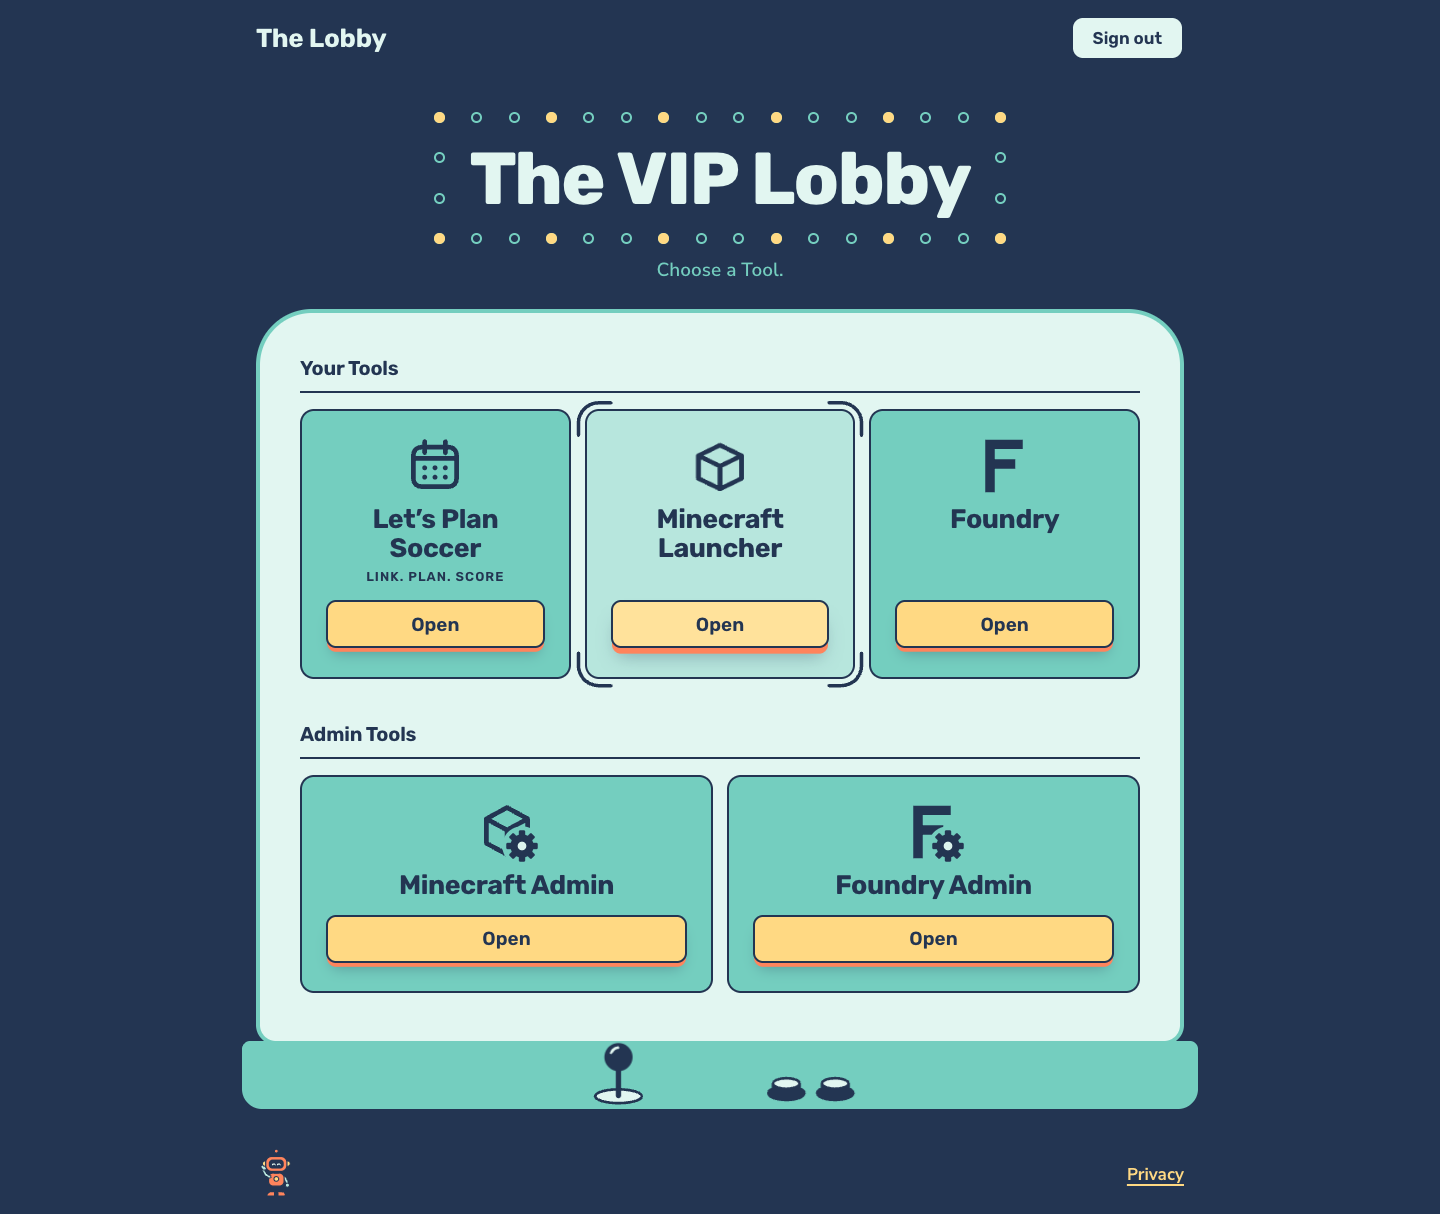
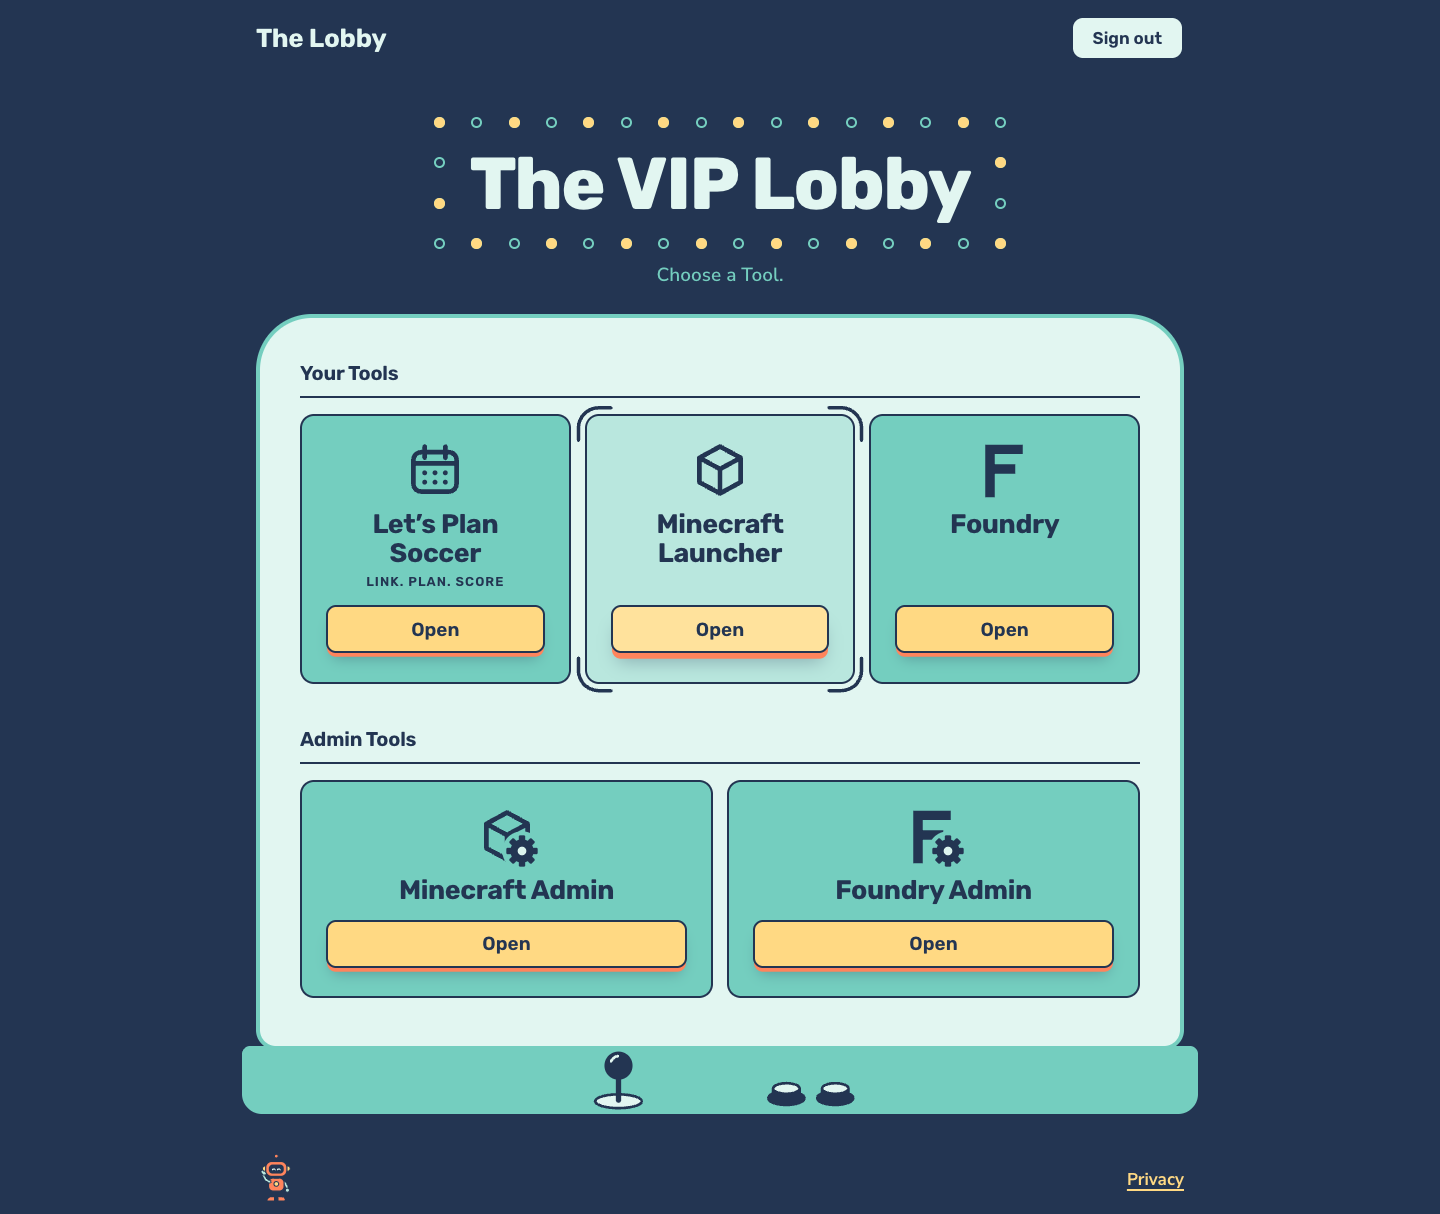
docs(ui): recapture the desktop preview with the marquee at rest
The full-page capture resized the viewport, which re-fired hover on the
picked tile and restarted the marquee's chase just before the shot, so
the image showed a chase frame while the README said it was at rest.
It is now taken with the viewport as tall as the page, and the README
says how. Found by the final finish review.

Changed region(s): [[0.1875, 0.0914, 0.8125, 0.8229], [0.1562, 0.8534, 0.8438, 1.0], [0.5312, 0.0914, 0.6875, 0.2133]]

diff --git a/docs/design/previews/README.md b/docs/design/previews/README.md
@@ -20,6 +20,6 @@ The all-Tools fixture includes the three entries under Your Tools and both entri
 
 Captured on 2026-11-11 with headless Chrome from the local Vite render of `web/src/VipLobby.tsx`, after bringing Arcade Cabinet to life with Attract Mode. They use the same all-Tools fixture and contain no Member information.
 
-- `vip-lobby-attract-mode-desktop.png`: 1440 × 1000 viewport, full page. The pointer rests on Minecraft Launcher, so the selector has closed around it; the marquee is at rest.
+- `vip-lobby-attract-mode-desktop.png`: 1440 wide, full page, taken with the viewport set to the page's 1214px height so the capture does not resize it (a resize re-fires hover and restarts the marquee's chase). The pointer rests on Minecraft Launcher, so the selector has closed around it; the marquee is at rest, every other bulb lit.
 - `vip-lobby-attract-mode-phone.png`: 390 × 844 viewport, full page, at rest.
 - `vip-lobby-attract-mode-launch.png`: 1440 × 1000 viewport, 160ms into Open on Minecraft Launcher, frozen by pausing the page's animations. The navigation was held back for the capture.
